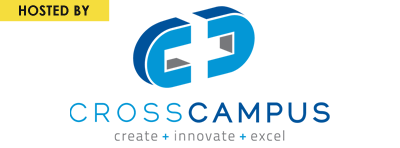
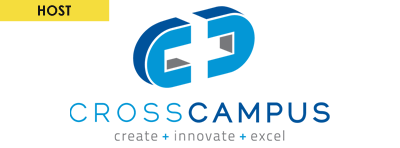
Added Spire.io as a sponsor

Changed region(s): [[0.03, 0.027, 0.24, 0.1081]]

diff --git a/index.html b/index.html
@@ -36,15 +36,18 @@
   </header>
   
   <div class="main-width">
+  
     <div class="next-event-announcement">April 26, 2012 | 7 pm | Cross Campus, Santa Monica</div>
     
     <a href="rsvp" class="rsvp-button">
       RSVP Required &raquo;
     </a>
     
-    <div class="hosted-by">
-      <a href="http://crosscamp.us"><img src="./images/hosts/crosscampus.png"></a>
+    <div class="sponsors-2x">
+      <a href="http://spire.io" target="_blank"><img src="./images/hosts/sponsor-spire.png"></a>
+      <a href="http://crosscamp.us" target="_blank"><img src="./images/hosts/crosscampus.png"></a>
     </div>
+
 
     <div class="keynote clearfix">
       <img src="./images/speakers/yahoo.png" alt="keynote speaker" class="keynote-image" height="130" width="130">
@@ -98,6 +101,11 @@
 	<iframe width="440" height="350" frameborder="0" scrolling="no" marginheight="0" marginwidth="0" src="http://maps.google.com/maps?q=820+Broadway+santa+monica&amp;hnear=820+Broadway,+Santa+Monica,+California+90401&amp;gl=us&amp;t=m&amp;ie=UTF8&amp;hq=&amp;ll=34.018494,-118.48922&amp;spn=0.021556,0.027595&amp;z=14&amp;output=embed"></iframe><br /><small><a href="http://maps.google.com/maps?q=820+Broadway+santa+monica&amp;hnear=820+Broadway,+Santa+Monica,+California+90401&amp;gl=us&amp;t=m&amp;ie=UTF8&amp;hq=&amp;ll=34.018494,-118.48922&amp;spn=0.021556,0.027595&amp;z=14&amp;source=embed" style="color:#0000FF;text-align:left">View Larger Map</a></small>
       </div>
     </div>
+    
+    <a href="rsvp" class="rsvp-button">
+      RSVP Required &raquo;
+    </a>
+
   </div>
 
 </body>

diff --git a/stylesheet.css b/stylesheet.css
@@ -264,6 +264,32 @@ header {
   box-shadow: 0px 0px 5px #777;
 }
 
+.sponsors-2x {
+  width: 864px;
+  height: 148px;
+  margin: 36px auto;
+  margin-bottom: 70px;
+}
+
+.sponsors-2x a {
+  height: 148px;
+}
+
+.sponsors-2x a:hover {
+  background: none;
+}
+
+.sponsors-2x img {
+  box-shadow: 0px 0px 5px #777;
+  border-radius: 10px;
+  margin: 10px;
+}
+
+.sponsors-2x img:hover {
+  box-shadow: 0px 0px 10px #777;
+
+}
+
 /*-----------Link to the presentation's material, only on "Past Event" page----------*/
 .presentation {
   margin: 0 10px;
